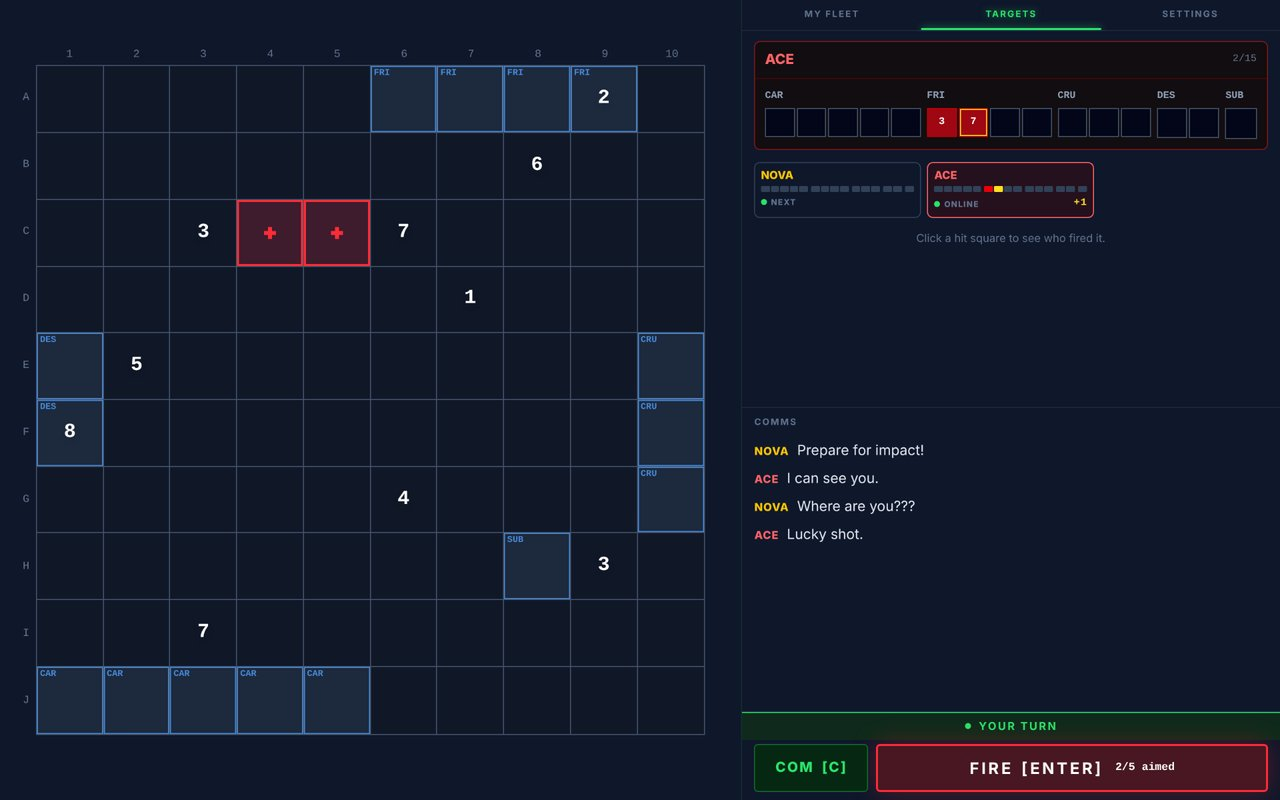
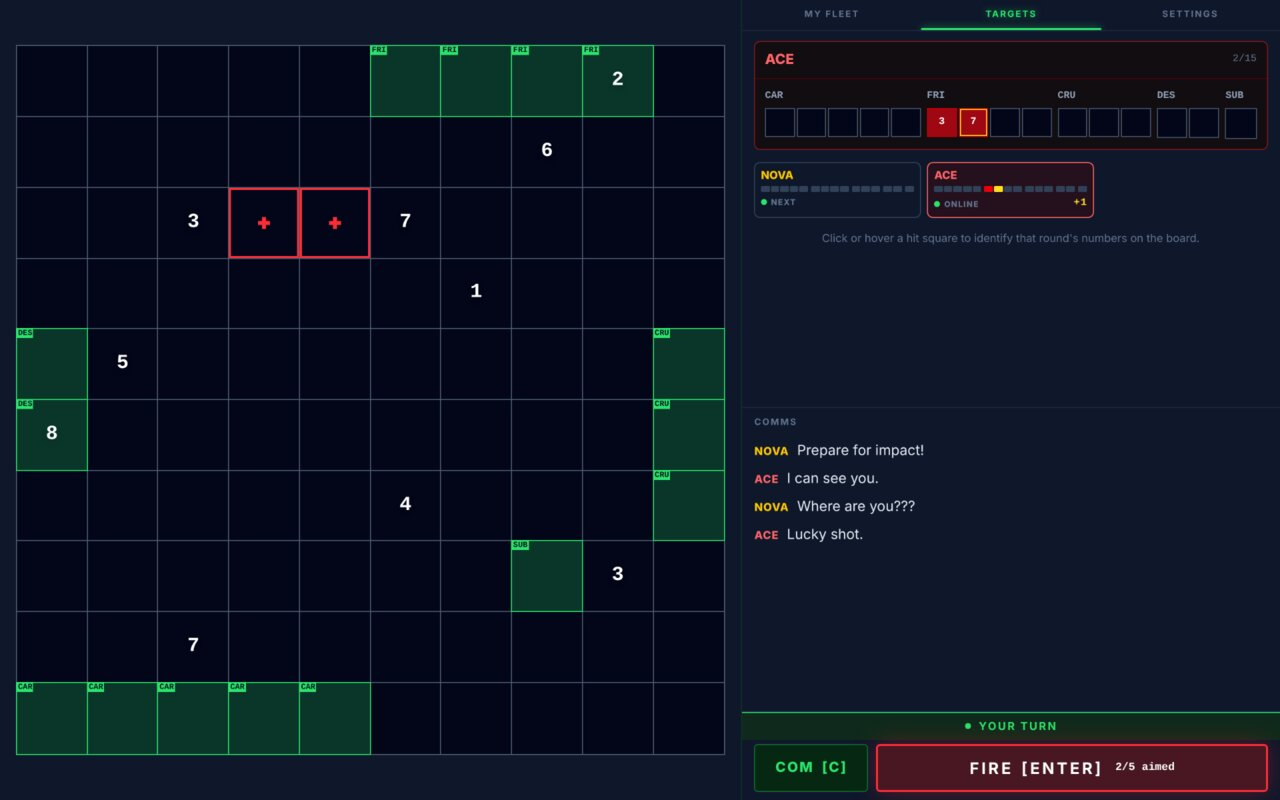
Hero sea and screenshots in the game's new board look (v0.9.2)
- js/sea.js: the board's Slate950 grid with slate cell borders; your ships
  tinted sonar green with a 1px outline on the borders and the code on a slim
  chip; hits crimson edged in rose. Matches the game's MenuBackdrop.jsx.
- img/battle.jpg, img/trackers-mobile.jpg, img/deploy.jpg: retaken from the
  game's new install screenshots.

Claude-Session: https://claude.ai/code/session_01YFqwUgDhPaWQGZBex7avE5

diff --git a/js/sea.js b/js/sea.js
@@ -17,7 +17,7 @@
   var PAN_CELL_MS = 13000;   // the pan moves one cell down and right this often
   var SLOW = 4;              // missiles and impacts play this much slower than in a game
   var SCENE_ALPHA = 0.45;    // ships and shots, dimmed behind the text
-  var SHIP = '96, 165, 250'; // your own ships' blue in a game
+  var SHIP = '43, 227, 107'; // your own ships' sonar green in a game
   var FLIGHT = 260;          // a streak missile's flight in a game (ms)
   var STREAK_DISTANCE = 3.2;
   var TRAIL_CELLS = 1.35;
@@ -131,10 +131,12 @@
 
   // Drawing, as the game board draws ships, missiles and impacts.
 
+  // The board's grid: Slate950 cells and slate cell borders, the borders
+  // dimmed with the scene so they stay behind the text.
   function drawGrid(w, h, cam) {
-    ctx.fillStyle = '#0f172a';
+    ctx.fillStyle = '#020617';
     ctx.fillRect(0, 0, w, h);
-    ctx.strokeStyle = 'rgba(148, 163, 184, 0.06)';
+    ctx.strokeStyle = 'rgba(93, 108, 131, ' + (0.85 * SCENE_ALPHA) + ')';
     ctx.lineWidth = 1;
     ctx.beginPath();
     for (var x = -(cam % CELL); x < w; x += CELL) { ctx.moveTo(Math.round(x) + 0.5, 0); ctx.lineTo(Math.round(x) + 0.5, h); }
@@ -142,17 +144,25 @@
     ctx.stroke();
   }
 
+  // A ship's cell as the board draws your own: the cell tinted sonar green, a
+  // 1px outline on the cell borders, and the code dark on a slim chip in the
+  // top-left corner; crimson, edged in rose, once hit.
   function drawShipCell(x, y, code, hit) {
-    ctx.fillStyle = hit ? 'rgba(127, 29, 29, 0.8)' : '#1e293b';
+    var edge = hit ? '#FB7185' : 'rgb(' + SHIP + ')';
+    ctx.fillStyle = hit ? 'rgba(136, 19, 55, 0.9)' : 'rgba(' + SHIP + ', 0.22)';
     ctx.fillRect(x, y, CELL, CELL);
-    ctx.strokeStyle = 'rgba(' + SHIP + ', 0.8)';
+    var left = Math.round(x) + 0.5;
+    var top = Math.round(y) + 0.5;
+    ctx.strokeStyle = edge;
     ctx.lineWidth = 1;
-    ctx.strokeRect(x + 0.5, y + 0.5, CELL - 1, CELL - 1);
-    ctx.fillStyle = 'rgba(' + SHIP + ', 0.8)';
+    ctx.strokeRect(left, top, CELL, CELL);
     ctx.font = 'bold 9px ' + MONO;
-    ctx.textBaseline = 'top';
+    ctx.fillStyle = edge;
+    ctx.fillRect(left + 0.5, top + 0.5, ctx.measureText(code).width + 2, 9);
+    ctx.fillStyle = '#0B1220';
+    ctx.textBaseline = 'middle';
     ctx.textAlign = 'left';
-    ctx.fillText(code, x + 2, y + 2);
+    ctx.fillText(code, left + 1.5, top + 5.5);
   }
 
   function glowAt(x, y, rad, stops) {
